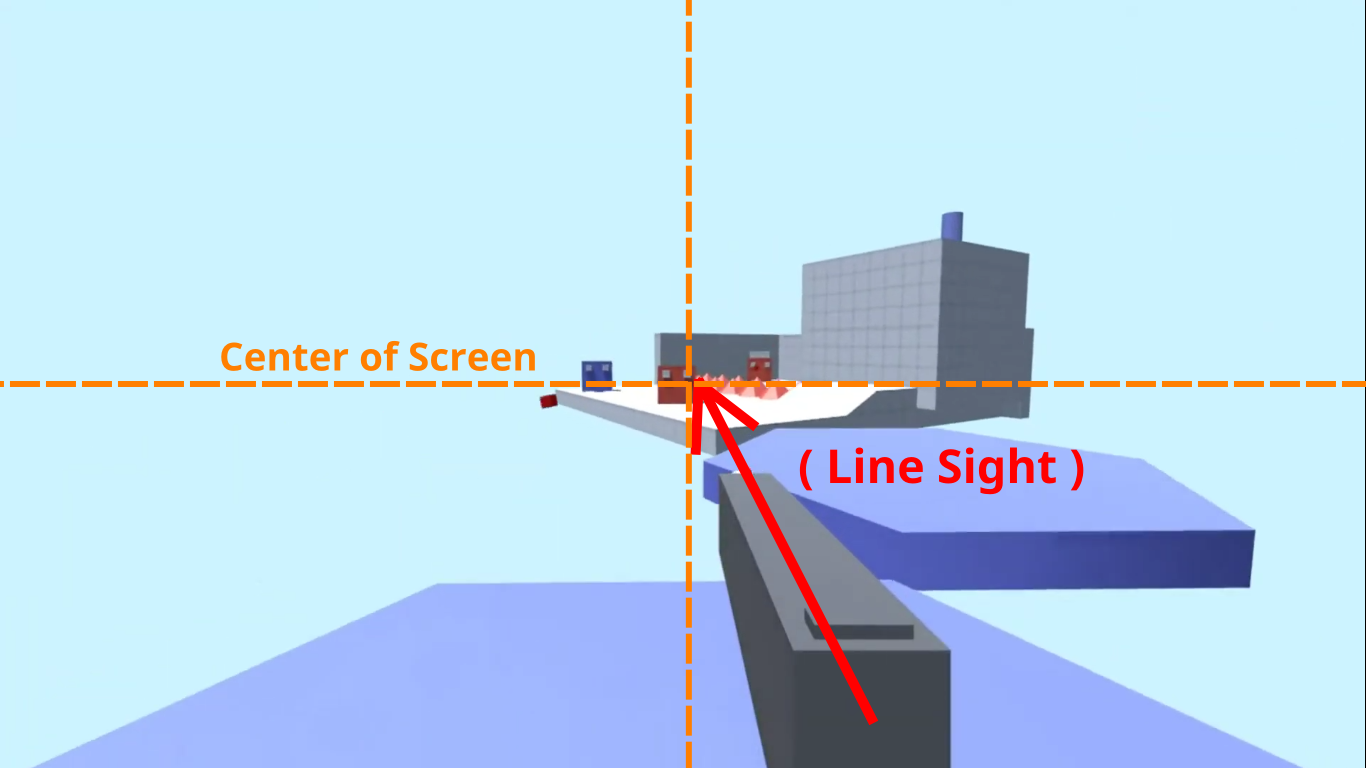
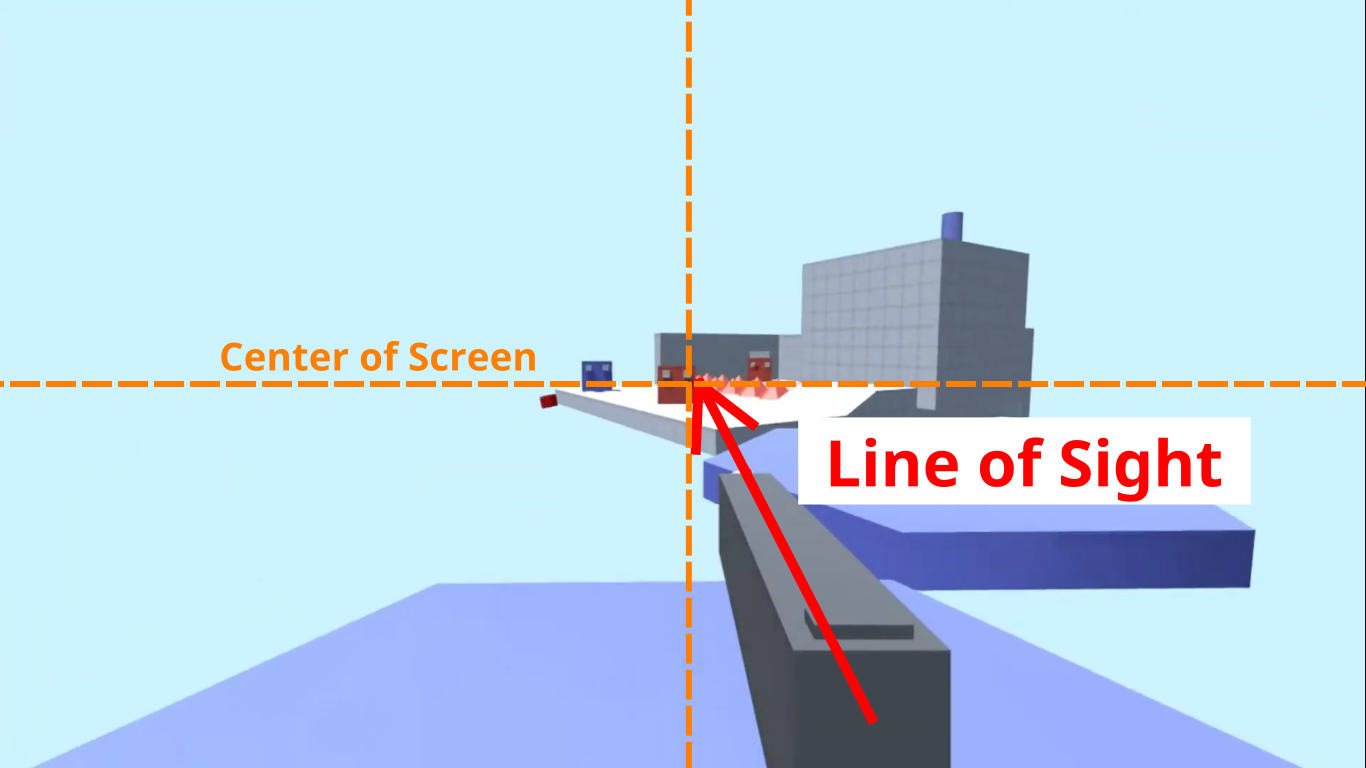
Update : MyWinTiles

Changed region(s): [[0.5842, 0.5312, 0.9224, 0.6562]]

diff --git a/content/post/MyWinTiles.md b/content/post/MyWinTiles.md
@@ -6,31 +6,125 @@ tags: [C++, Win32api, Tiling Window Manager]
 draft: false
 ---
 
-The tilling window manager for Windows, built on top of explorer shell.
+The tiling window manager for Windows, built on top of Windows Explorer Shell. \
+Aim to improve productivity of any user that heavily use keyboard on their daily basis.
 
 ![app](/img/mywintiles-intro.png)
 
 <!--more-->
 
-Focus heavily on keyboard usage (vim-like) to prevent mouse usage which
+It focus heavily on keyboard usage (vim-like) to prevent mouse usage which
 usually need in the typical stacking window manager (use mouse to minimize, maximize, focus and close window) .
 
-Improve the productivity of any user that heavily use keyboard on their daily basis.
-
-showcase: https://youtu.be/pSBTtKgShQQ \
-more explain: https://youtu.be/GHOhQw8JxgM \
 release: https://github.com/CSaratakij/MyWinTiles/releases \
 respository: https://github.com/CSaratakij/MyWinTiles
 
 responsible: all
 
-## Introduction
-(The need to write this at all)
-(MyWinTiles + MyWinBar + Wox = my ideals of desktop environment)
+## Showcase
+### Ideals Desktop Environment
+{{< youtube pSBTtKgShQQ >}}
 
-## The Technical Challenge
-(F**k you Win32 api, give me the virtual desktop api (the useful one))
+### Tiling Window Manager Explain
+{{< youtube GHOhQw8JxgM >}}
+
+## Introduction
+    First, to avoid any confusion, I will refer "Windows" as an operating system.
+    And refer "window" (without 's') as window of program (GUI).
+
+Most of my workflow is on the linux side.
+
+Tiling Window Manager with [full (comfortable)keyboard control](https://i3wm.org/) is one of the things I miss when using Windows.
+
+I get annoyed everytime I have to micro management window. \
+For example, move window around with mouse, click minimize/maximize window, etc..
+
+So, I decide to hack things together to create my ideals desktop environment in just a week.
+
+My ideals desktop environment consists of:
+1) Tiling window manager
+2) Bar (or taskbar)
+3) App Launcher
+
+This is possible, thanks to Win32 API. \
+Although, it has its own limit.
+
+## Technical Challenge
+Oh boys..where to begin..\
+I'll highlight just only the crucial stuff.
+
+But first, I need to explain the terms.
+
+HWND is a window handle.\
+It's an int pointer, it can use to refer to window.
+
+![image about session, desktop and window HWND](/img/mywintiles-overview.png)
+
+Desktop and virtual desktops is not the same thing. (they call 'virtual' for a reason) \
+Virtual desktops is mimick multiple desktops without using the real multiple desktops.
+
+Workspace is a group of window, virtual desktops and workspace is refer to the same thing.
+
+### Virtual Desktop limitation
+    Don't confuse this with Windows Virtual Desktop that run on Azure.
+
+Since Windows 10, Virtual Desktops has been introduced.
+
+The feature is great, but only a little COM api has been [public](https://docs.microsoft.com/en-us/windows/win32/api/shobjidl_core/nn-shobjidl_core-ivirtualdesktopmanager). \
+The rest of virtual desktops api is hidden, undocument.
+
+Seriously, hidden to the point of being useless.
+
+That's why I can't control how virtual desktops behave programmatically. \
+I have to implement this stuff myself.
+
+The simple array to hold HWND and making window minimize if the window is not belong to the current workspace do the tricks. 
+
+### HWND quirk
+The key to make this program works is to make sure HWND point to the same window at the time of this program collect window information.
+
+Such as, when this program initialize, detect if some window get create/destroy, etc..
+
+Unfortunately, Windows decide to recycle HWND. \
+So, I cannot ensure the HWND that I get will point to the same window after initialize.
+
+One thing for sure is, when window is hide (not show in the Task Switcher), HWND will get free. \
+That HWND becomes obsolete, ready to be recycle by Windows.
+
+I need to avoid hiding window.
+
+Also, getting HWND by the window title name is not reliable.\
+Some window will change its window title from time to time, for an example the Web Browser.
+
+### Window Filter
+The reason window need to be filter is simple.
+
+Win32 api provides the way to get all the window in the desktop, which is what I want. \
+But it'll get all the window regardless of its visibility.
+
+From user perspective, visible window is the one user can see. \
+And all user care about is the one that they can see.
+
+But for some reason, the api that test if some window is really visible is not accurate. \
+It'll report some hidden window back for me.
+
+I need to checks other information as well, like for example, window title information to be certain about its visibility.
+
+### Custom Shell limitation
+To get the event message of every window in the desktop, I need to register shell hook.
+
+The event message is the key to know whether or not some window will get create, destroy, maximize, minimize, etc...
+
+The default gui shell in Windows is Windows Explorer Shell.
+
+At first, I want to replace the default shell. \
+Like how [cairo shell](https://github.com/cairoshell/cairoshell) did.
+
+Unfortunately, there is no shell message available for custom shell. \
+So, that's why this need to built on top of the Windows Explorer Shell.
 
 ## Summary
-()
+With this functional implement, I can use Windows peacfully. \
+As long as Win32 API remain backward compatibility, it should works fine. \
+This is currently my first program to install and run when I need to use any computer with Windows on it.
 

diff --git a/content/post/z3z.md b/content/post/z3z.md
@@ -44,11 +44,11 @@ The aim direction in the player perspective is from the center of the screen.
 The gun itself need to look like it point to the center of the screen as well. \
 So, I need to rotate a gun to make it look like that some how.
 
-Because there is no crosshair in this game, player should be able to aim from the hip by the line sight that gun model create.
+Because there is no crosshair in this game, player should be able to aim from the hip by the line of sight that gun model create.
 
-![gun line sight](/img/z3z-gun-line-sight.png)
+![gun line of sight](/img/z3z-gun-line-sight.png)
 
-Without this line sight, aiming is stupidly difficult.
+Without this line of sight, aiming is stupidly difficult.
 
 To rotate the gun, I simply find a look direction of camera in world space, offset it forward and then make gun model look at that position (Rotate only Y-axis).
 
@@ -56,7 +56,7 @@ To rotate the gun, I simply find a look direction of camera in world space, offs
 
 ## Summary
 I already tweak the feels of player controlling. \
-The core functional works pretty well, more level and enemy type I guess.
+The core functional works pretty well, need more level and enemy type (later).
 
 This one is about trying to clone the game mechanic, so I don't have an intention to release this to game site such as [itch.io](https://itch.io/) (aside from the source).
 

diff --git a/content/post/bongocat-osu-linux-native-port.md b/content/post/bongocat-osu-linux-native-port.md
@@ -57,15 +57,15 @@ There's a library call [libxdo](https://github.com/jordansissel/xdotool), which 
 
 Still, I need to talk to x11 directly for the screen resolution.
 
-Also, I need to show the message box. The [GTK](https://www.gtk.org) and [Qt](https://www.qt.io) is way too overkill for this.
-I don't know ahead of time if user have a linux ditro based on GTK or Qt. (Gnome or KDE for an example)
+Also, I need to show the message box. The [GTK](https://www.gtk.org) and [Qt](https://www.qt.io) is way overkill for this.
+I don't know ahead of time if user have a linux distro based on GTK or Qt. (Gnome or KDE for an example)
 
 The amount of library dependencies that user need to install in order to show message box in those library is too much.
 
 Instead, I opt for [SDL](https://www.libsdl.org). \
 Way less bloat than those gui library.
 
-### Linux specific quirk
+### X11 quirk
 Well, for some reason, x11 handle error strangely. \
 If there is an error, x11 will force application to quit itself.
 
